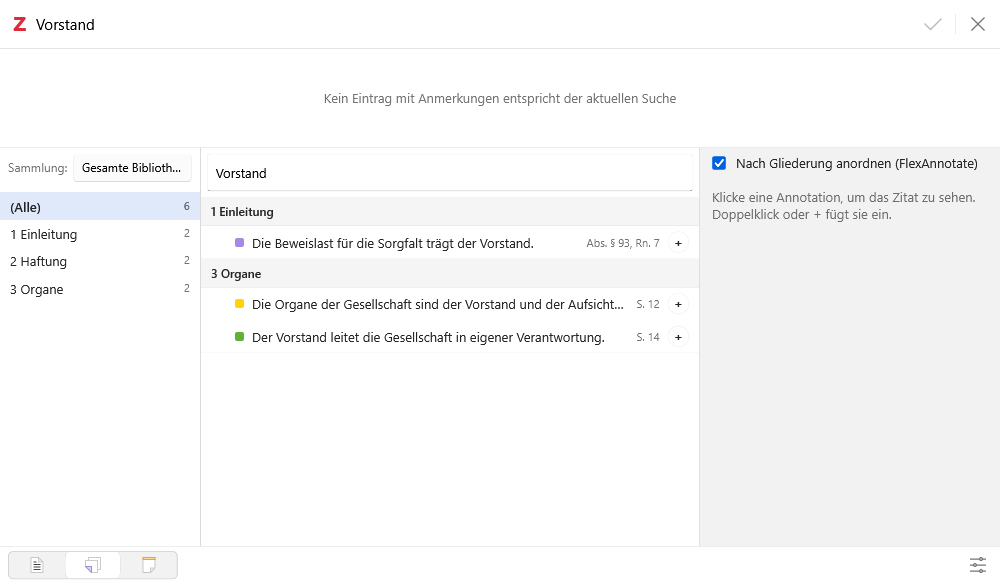
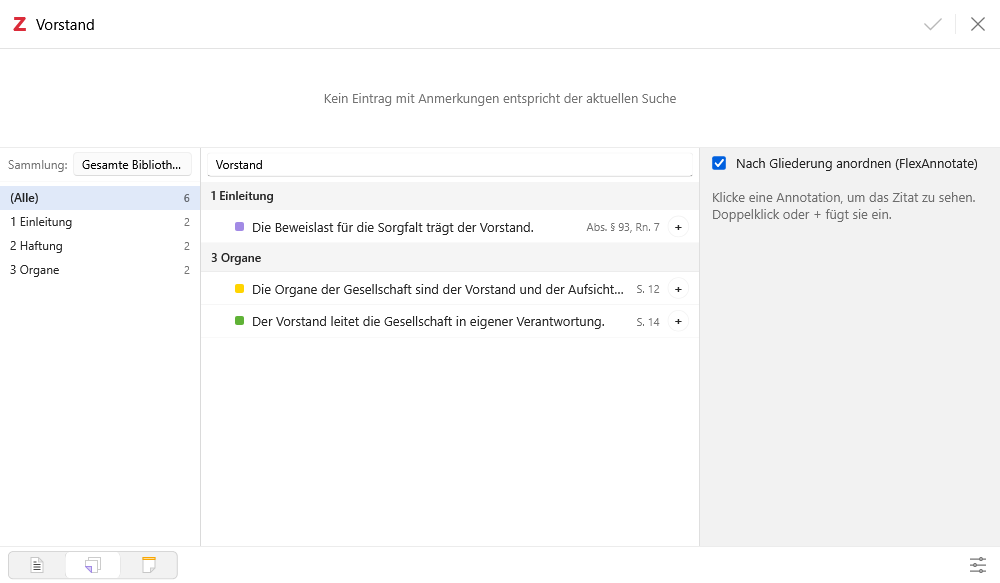
fix(organizer): citation dialog scope menu opens again, compact tree and aligned header rows

Changed region(s): [[0.0, 0.2779, 0.62, 0.5866], [0.589, 0.3705, 0.651, 0.4322], [0.651, 0.494, 0.682, 0.5866]]

diff --git a/src/features/organizer/dialogOutline.ts b/src/features/organizer/dialogOutline.ts
@@ -254,7 +254,7 @@ function addPicker(win: Window, info: Attached) {
   const wrap = doc.createElement("div");
   wrap.id = PICKER_ID;
   wrap.style.cssText =
-    "flex:none;display:flex;gap:6px;align-items:center;padding:6px 8px;border-bottom:1px solid var(--fill-quinary, rgba(128,128,128,0.25));";
+    "flex:none;display:flex;gap:6px;align-items:center;box-sizing:border-box;height:34px;padding:0 8px;border-bottom:1px solid var(--fill-quinary, rgba(128,128,128,0.25));";
   const label = doc.createElement("span");
   label.style.cssText = "font-size:12px;color:var(--fill-secondary,#777);";
   label.textContent = tr("scope");
@@ -270,11 +270,12 @@ function addPicker(win: Window, info: Attached) {
   sel.id = "flexannotate-dialog-scope";
   sel.style.cssText =
     "appearance:none;-moz-appearance:none;cursor:pointer;width:100%;max-width:100%;overflow:hidden;" +
-    "text-overflow:ellipsis;white-space:nowrap;text-align:start;padding:3px 8px;font-size:12px;";
+    "text-overflow:ellipsis;white-space:nowrap;text-align:start;box-sizing:border-box;height:24px;padding:0 8px;font-size:12px;";
   sel.textContent = `${still.name}  ▾`;
   const menu = doc.createElement("div");
   menu.style.cssText =
-    "position:absolute;left:0;top:100%;margin-top:2px;z-index:60;display:none;min-width:220px;max-height:300px;overflow-y:auto;" +
+    // fixed statt absolute: der Container des Dialogs schneidet (overflow:hidden)
+    "position:fixed;z-index:1000;display:none;min-width:220px;max-height:300px;overflow-y:auto;" +
     "background:var(--material-background,#fff);border:1px solid var(--fill-quinary, rgba(128,128,128,0.35));border-radius:4px;box-shadow:0 4px 14px rgba(0,0,0,.25);";
   for (const c of choices) {
     const o = doc.createElement("div");
@@ -295,8 +296,19 @@ function addPicker(win: Window, info: Attached) {
     });
     menu.appendChild(o);
   }
-  sel.addEventListener("click", () => {
-    menu.style.display = menu.style.display === "none" ? "block" : "none";
+  sel.addEventListener("click", (e) => {
+    e.stopPropagation();
+    if (menu.style.display === "block") {
+      menu.style.display = "none";
+      return;
+    }
+    const r = sel.getBoundingClientRect();
+    menu.style.left = `${r.left}px`;
+    menu.style.top = `${r.bottom + 2}px`;
+    menu.style.display = "block";
+  });
+  doc.addEventListener("click", () => {
+    menu.style.display = "none";
   });
   relPos.append(sel, menu);
   wrap.append(label, relPos);

diff --git a/src/features/organizer/dialogOutlineRender.ts b/src/features/organizer/dialogOutlineRender.ts
@@ -73,7 +73,7 @@ function renderTree(win: Window, v: View) {
       doc,
       "div",
       `display:flex;justify-content:space-between;gap:8px;cursor:pointer;` +
-        `padding:5px 10px 5px ${10 + depth * 14}px;` +
+        `padding:4px 10px 4px ${10 + depth * 14}px;font-size:12px;` +
         `background:${on ? SELECTED : "transparent"};font-weight:${on ? 600 : 400};`,
     );
     d.dataset.nodeId = id;
@@ -147,7 +147,9 @@ export function renderList(win: Window, v: View) {
   filter.type = "text";
   filter.placeholder = tr("dialogFilter");
   filter.value = v.query;
-  filter.style.cssText = "margin:6px;flex:none;padding:5px 8px;";
+  // Höhe 24 + Rand 2×5 = 34 px, genau wie die Sammlungs-Zeile links
+  filter.style.cssText =
+    "margin:5px 6px;flex:none;box-sizing:border-box;height:24px;padding:0 8px;font-size:12px;";
   filter.addEventListener("input", () => {
     v.query = filter.value;
     renderList(win, v);
